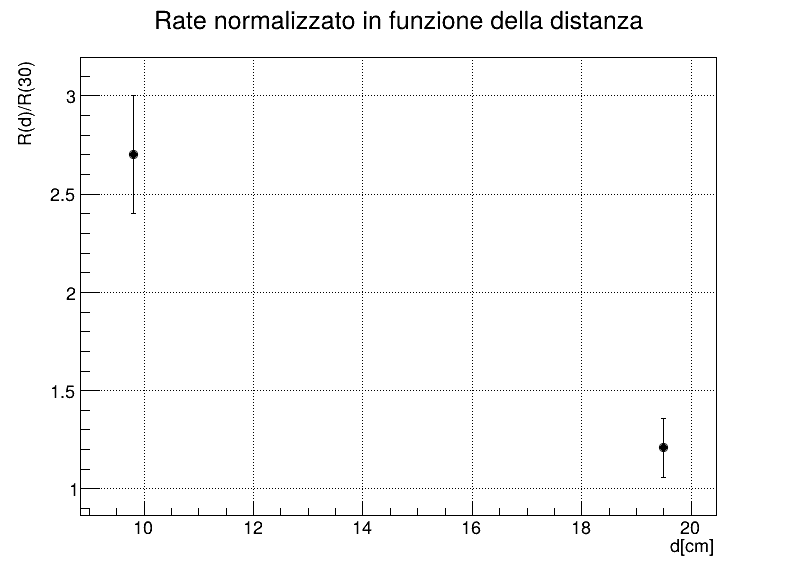
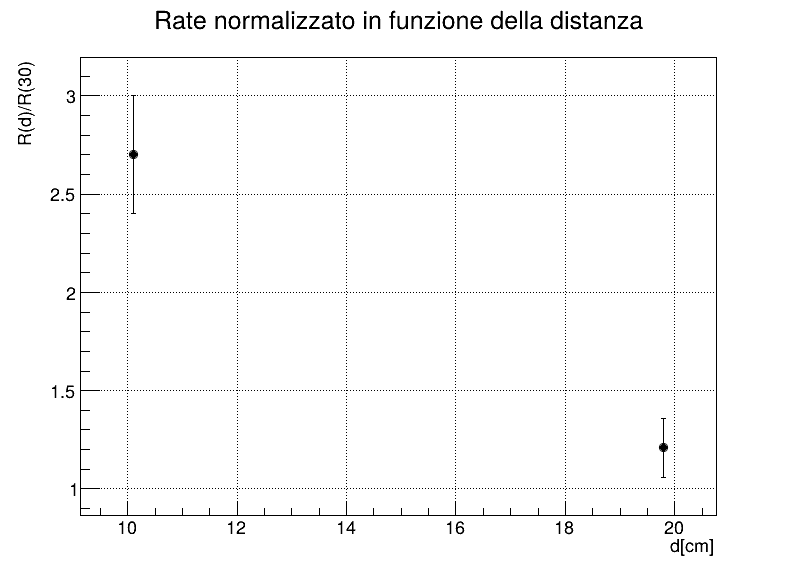
ok

diff --git a/graficoRate.C b/graficoRate.C
@@ -6,7 +6,7 @@ void graficoRate() {
 
     // --- DATI DI ESEMPIO ---
     const int N = 2;
-    double x[N]     = {9.8, 19.5};        // variabile indipendente
+    double x[N]     = {10.1, 19.8};        // variabile indipendente
     double y[N]     = {2.7, 1.21 }; // variabile misurata
     double ex[N]    = {0, 0};        // errori in x (qui nulli)
     double ey[N]    = {0.3, 0.15 }; // errori verticali
